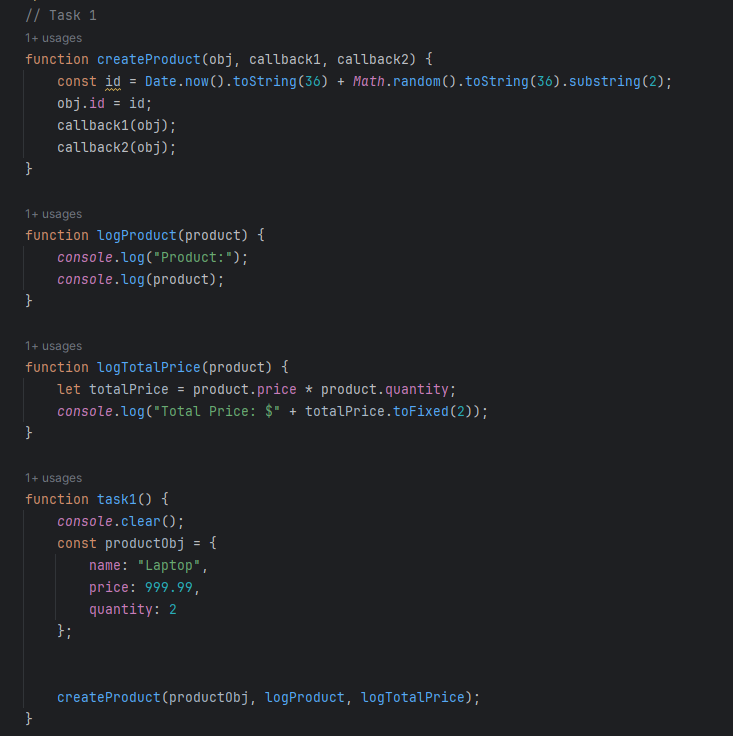
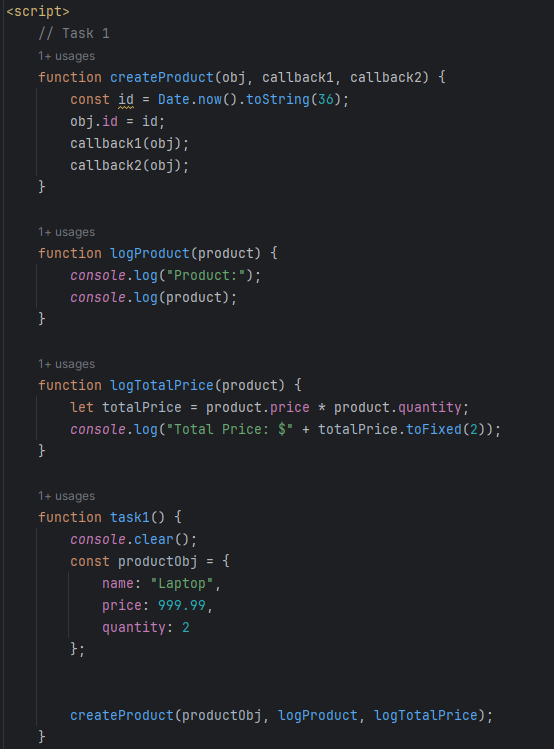
лаб 51

diff --git a/lab5/lab51.html b/lab5/lab51.html
@@ -17,7 +17,7 @@
 <script>
     // Task 1
     function createProduct(obj, callback1, callback2) {
-        const id = Date.now().toString(36) + Math.random().toString(36).substring(2);
+        const id = Date.now().toString(36);
         obj.id = id;
         callback1(obj);
         callback2(obj);
